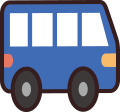
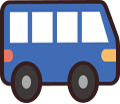
fix

diff --git a/index.html b/index.html
@@ -38,7 +38,7 @@
                   <figure><img src="./images/tree.png" alt=""/></figure>
                 </div>
                 <div class="cars right">
-                  <figure><img src="./images/carRed02.png" alt=""/></figure>
+                  <figure><img src="./images/carRed.png" alt=""/></figure>
                 </div>
                 <div class="me">
                   <figure><img src="./images/me.png" alt=""/></figure>
